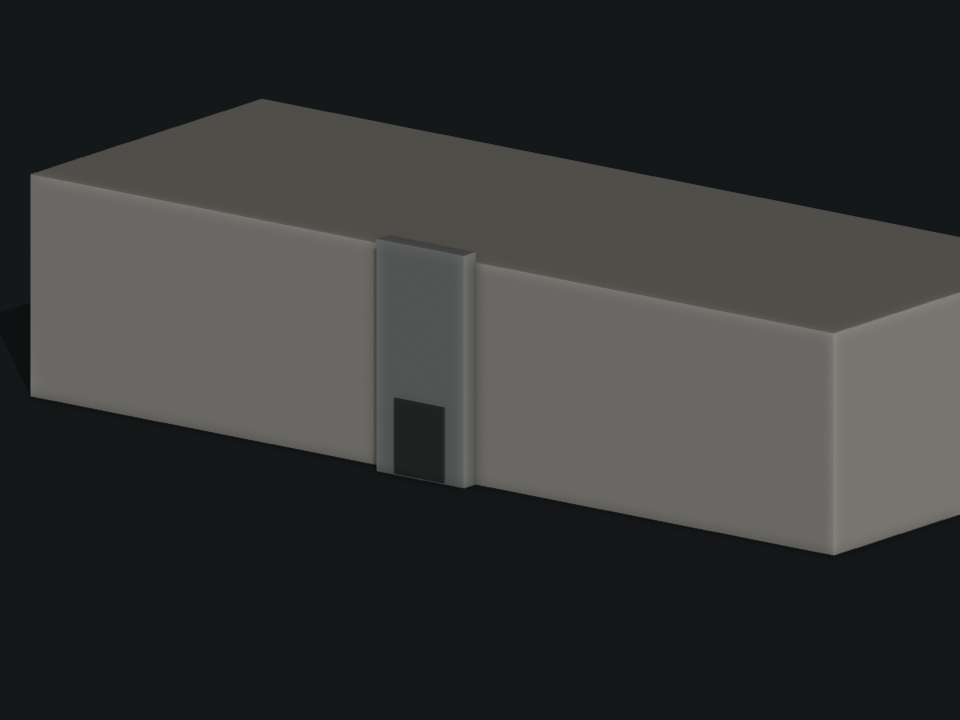
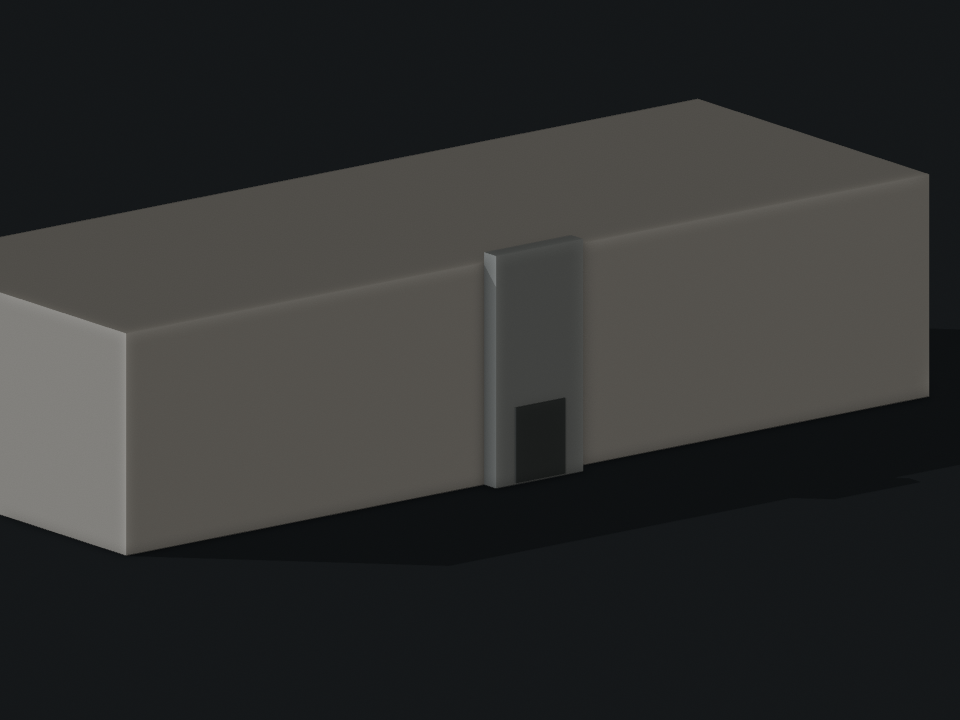
fix: align community center runtime axis

diff --git a/scripts/create_xinhua_community_center_massing_model.py b/scripts/create_xinhua_community_center_massing_model.py
@@ -84,15 +84,15 @@ def add_polygon_prism(
     height: float,
     material: bpy.types.Material,
 ) -> bpy.types.Object:
-    """把 Three.js 的 XZ footprint 映射为 Blender 的 X/-Y 平面。"""
+    """把运行时 XZ 映射到 Blender X/Y，由共享 renderer 完成唯一 Z 翻转。"""
 
     count = len(footprint_xz)
     vertices = [
-        (float(x_value), -float(z_value), z_bottom)
+        (float(x_value), float(z_value), z_bottom)
         for x_value, z_value in footprint_xz
     ]
     vertices.extend(
-        (float(x_value), -float(z_value), z_bottom + height)
+        (float(x_value), float(z_value), z_bottom + height)
         for x_value, z_value in footprint_xz
     )
     faces: list[tuple[int, ...]] = [
@@ -125,7 +125,7 @@ def add_box(
         size=1.0,
         location=(
             center_xz[0],
-            -center_xz[1],
+            center_xz[1],
             z_bottom + height / 2,
         ),
     )
@@ -149,7 +149,10 @@ def join_building(objects: list[bpy.types.Object]) -> bpy.types.Object:
     building["tier"] = "massing"
     building["source_osm_way"] = "864493234"
     building["source_poi_node"] = "13765678129"
-    building["authored_front"] = "blender-local-negative-y"
+    building["blender_source_front"] = "local-positive-y"
+    building["raw_gltf_front"] = "local-negative-z"
+    building["renderer_scale_z"] = -1
+    building["runtime_front"] = "local-positive-z"
     building["reference_images_embedded"] = False
     return building
 
@@ -294,6 +297,12 @@ def write_build_record(binding: dict[str, Any]) -> None:
             "sourceAccessRoad": "way/577252269",
             "referenceOnly": True,
             "embeddedInGlb": False,
+            "axisConversion": {
+                "blenderSource": "x-runtime-x_y-runtime-z",
+                "gltfExport": "blender-y-to-raw-gltf-negative-z",
+                "renderer": "GlbModel primitive scale [1,1,-1]",
+                "runtime": "single-renderer-z-flip-restores-binding-xz",
+            },
         },
         "runtimePlacementCandidate": binding["runtimePlacementCandidate"],
         "mapCalibration": {
@@ -491,7 +500,7 @@ def main() -> None:
     camera = setup_preview()
     render_view(
         camera,
-        (0.0, -17.5, 6.4),
+        (0.0, 17.5, 6.4),
         (0.0, 0.0, 1.25),
         CANONICAL_PATH,
         15.2,
@@ -505,8 +514,8 @@ def main() -> None:
     )
     render_view(
         camera,
-        (9.8, -13.5, 5.4),
-        (0.0, -1.0, 1.25),
+        (9.8, 13.5, 5.4),
+        (0.0, 1.0, 1.25),
         ENTRANCE_PATH,
         11.8,
     )

diff --git a/docs/research/xinhua-community-center-model-brief.md b/docs/research/xinhua-community-center-model-brief.md
@@ -98,10 +98,14 @@
   `way/864493234`; named node is inside this polygon.
 - Authored unit:
   `1 Blender unit = 1 scene unit`.
-- Blender front:
-  local `-Y`.
-- GLTF/Three.js front:
-  local `+Z`.
+- Blender source front:
+  local `+Y`; this generator stores `Blender Y = binding runtime Z`.
+- Raw GLTF front:
+  local `-Z`, produced by Blender's Y-up export conversion.
+- Shared renderer conversion:
+  `GlbModel` applies `primitive scale={[1, 1, -1]}` exactly once.
+- Effective Three.js runtime front:
+  local `+Z`, aligned to `way/577252269`.
 - Runtime yaw candidate:
   `1.1800125527954972 rad`, derived from the footprint front-edge outward normal.
 - Runtime scale:
@@ -213,8 +217,13 @@ details and are not claimed by this Massing.
 - 2026-07-26:
   bound the named POI to containing `way/864493234`, not merely the POI point.
 - 2026-07-26:
-  rotated the candidate to keep Blender `-Y` as front and changed candidate scale from legacy
-  `0.6` to authored `1.0`.
+  changed candidate scale from legacy `0.6` to authored `1.0`.
+- 2026-07-26:
+  main-window runtime review found the first v2 generator pre-negated Blender Y while shared
+  `GlbModel` also negated GLTF Z. This double conversion mirrored the central portal onto the
+  footprint rear edge. The source now stores `Blender Y = binding runtime Z`; Blender export and
+  the shared renderer provide the single complete conversion chain. A GLB primitive-bounds test
+  verifies the rendered portal remains on the named-road side.
 - 2026-07-26:
   did not build the toy exchange house because its exact placement is unknown and it is not the
   target building footprint.
